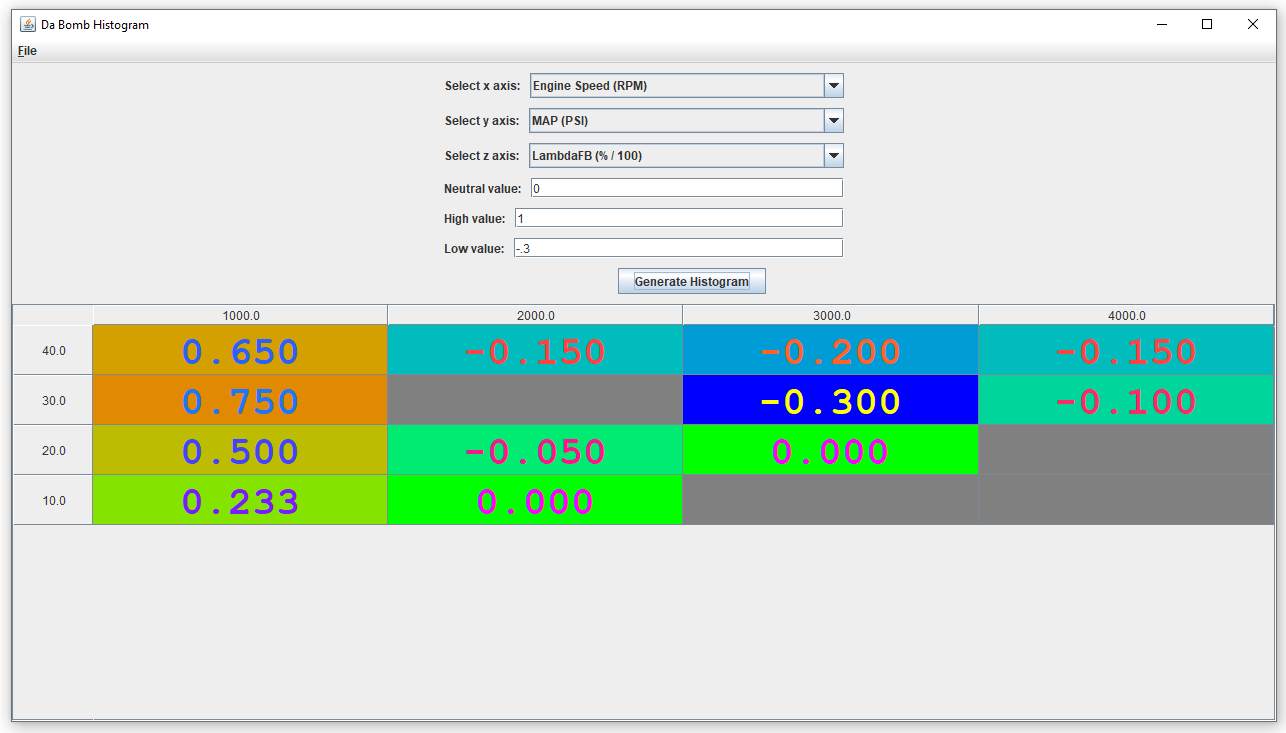
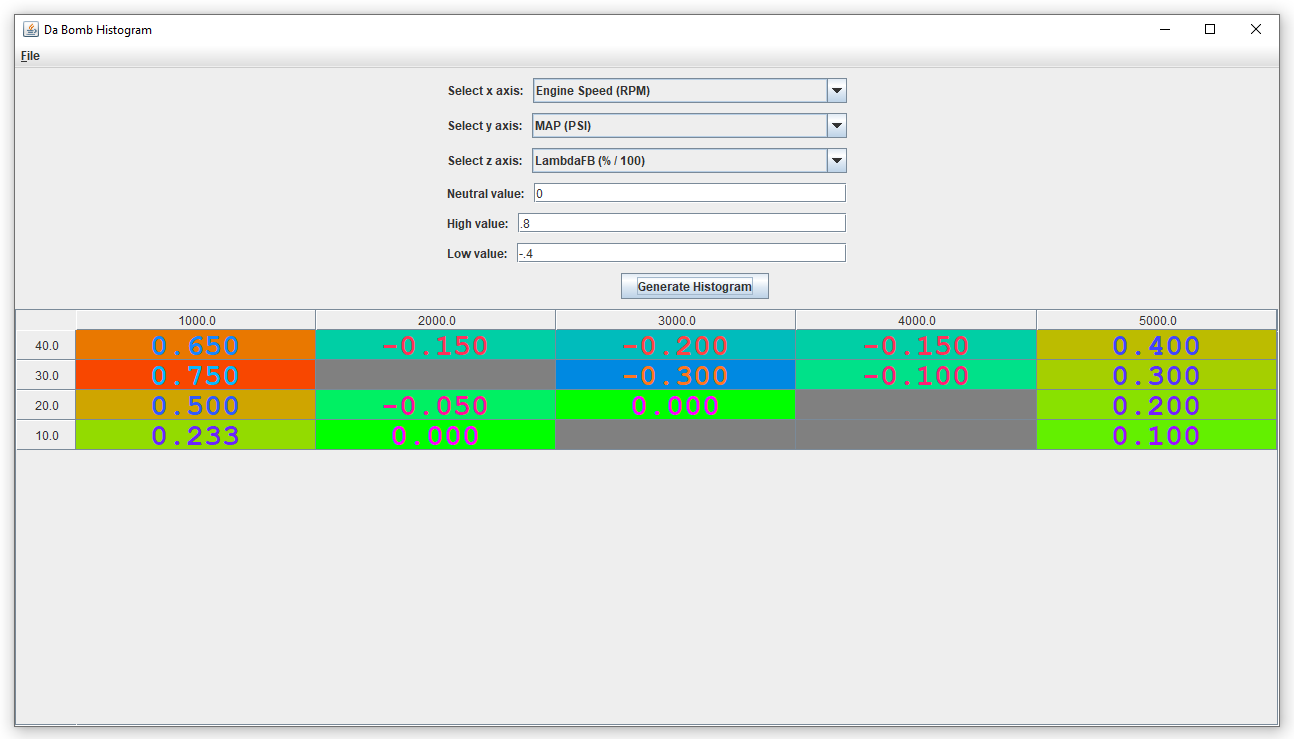
Decrease font size; minor fixes

Changed region(s): [[0.0, 0.0, 0.9953, 0.9905], [0.3421, 0.09, 0.6532, 0.3602]]

diff --git a/src/main/java/com/refinery408/App.java b/src/main/java/com/refinery408/App.java
@@ -144,6 +144,7 @@ public class App {
         lowPanel.add(this.lowText);
 
         this.button = new JButton("Generate Histogram");
+        this.button.setMnemonic(KeyEvent.VK_G);
         this.button.addActionListener(e -> {
             JPanel newTablePanel;
             try {
@@ -233,6 +234,9 @@ public class App {
             this.yCombo.setSelectedIndex(1);
             this.zCombo.setModel(new DefaultComboBoxModel<>(this.parser.getColumns().toArray(new String[0])));
             this.zCombo.setSelectedIndex(2);
+            this.neutralText.setText("0");
+            this.highText.setText("");
+            this.lowText.setText("");
 
             this.configPanel.setVisible(true);
 
@@ -280,12 +284,12 @@ public class App {
                 return joiner.toString();
             }
         };
-        table.setRowHeight(50);
+        table.setRowHeight(30);
         ColumnCellRenderer cellRenderer = new ColumnCellRenderer(tableModel.getColors());
         for (Enumeration<TableColumn> e = table.getColumnModel().getColumns(); e.hasMoreElements();) {
             e.nextElement().setCellRenderer(cellRenderer);
         }
-        table.setFont(new Font("Monospaced", Font.BOLD, 40));
+        table.setFont(new Font("Monospaced", Font.BOLD, 30));
         JScrollPane scrollPane = new JScrollPane(table);
         scrollPane.setRowHeaderView(buildRowHeader(table));
         JPanel tablePanel = new JPanel(new BorderLayout());
@@ -339,26 +343,26 @@ public class App {
         return null;
     }
 
-    private JList buildRowHeader(final JTable table) {
-        final JList rowHeader = new JList(new AbstractListModel() {
+    private JList<Double> buildRowHeader(final JTable table) {
+        final JList<Double> rowHeader = new JList<>(new AbstractListModel<Double>() {
             public int getSize() {
                 return parser.getyValues().size();
             }
 
-            public Object getElementAt(int index) {
-                return parser.getyValues().toArray()[index];
+            public Double getElementAt(int index) {
+                return parser.getyValues().toArray(new Double[0])[index];
             }
         });
         rowHeader.setOpaque(false);
-        rowHeader.setFixedCellWidth(80);
+        rowHeader.setFixedCellWidth(60);
         rowHeader.setCellRenderer(new RowHeaderRenderer(table));
         rowHeader.setBackground(table.getBackground());
         rowHeader.setForeground(table.getForeground());
         return rowHeader;
     }
 
-    static class RowHeaderRenderer extends JLabel implements ListCellRenderer {
-        private JTable table;
+    static class RowHeaderRenderer extends JLabel implements ListCellRenderer<Double> {
+        private final JTable table;
 
         RowHeaderRenderer(JTable table) {
             this.table = table;
@@ -373,8 +377,8 @@ public class App {
         }
 
         @Override
-        public Component getListCellRendererComponent(JList list,
-                                                      Object value,
+        public Component getListCellRendererComponent(JList<? extends Double> list,
+                                                      Double value,
                                                       int index,
                                                       boolean isSelected,
                                                       boolean cellHasFocus) {
